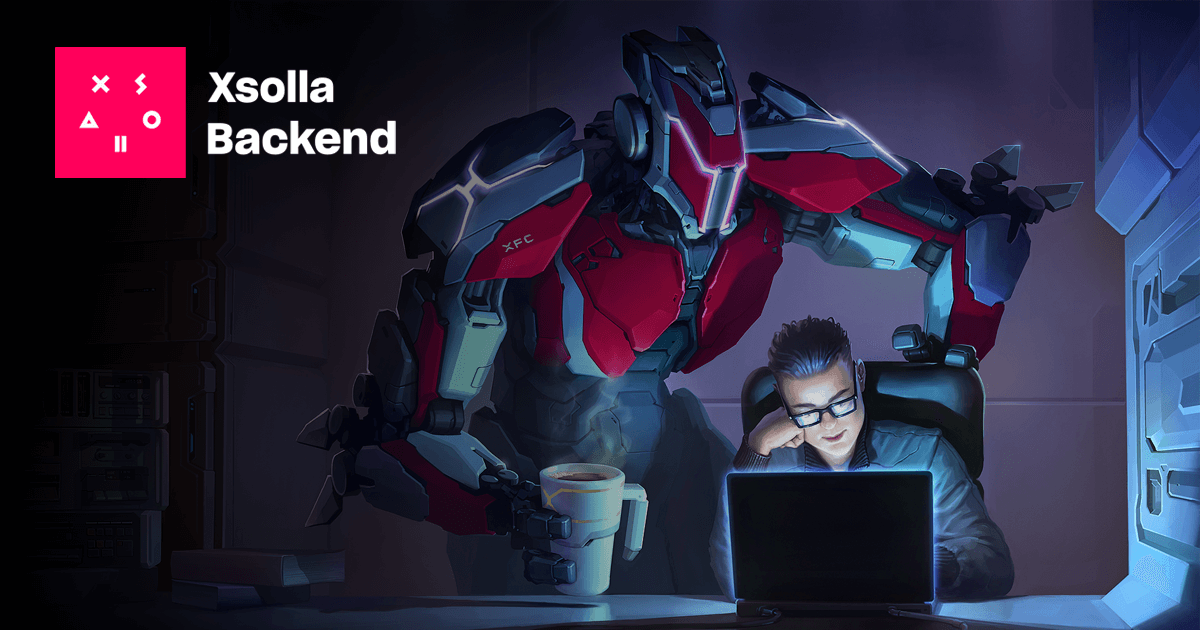
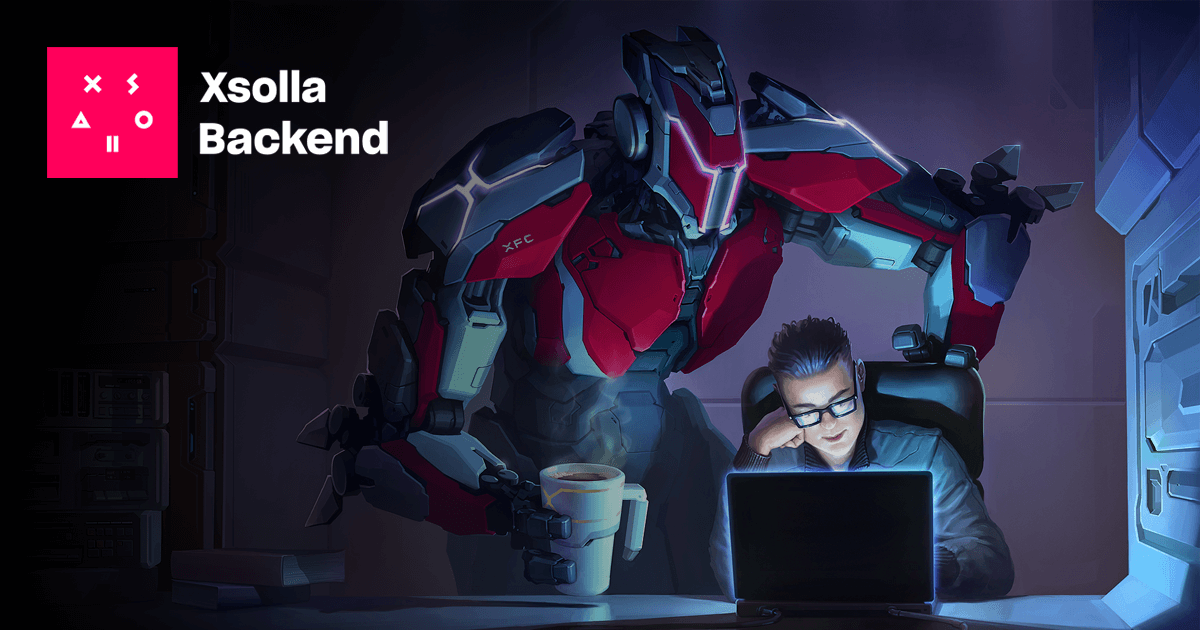
chore: Impr metadata, flagship img, og:img, opengraph
[XBND-1271] JP's doc rearrange reqs

Changed region(s): [[0.0308, 0.0603, 0.3392, 0.2714], [0.925, 0.8746, 0.9867, 0.9349]]

diff --git a/docs/source/index.rst b/docs/source/index.rst
@@ -1,13 +1,16 @@
+:og:title: Welcome to Xsolla Backend
+:og:description: Xsolla Backend is a powerful backend engine for building highly-scalable online games and entertainment products - pay only 5% for unlimited support and enterprise features.
+:og:image: /_static/images/_local/xbe-banner-og-1200x630.min.png
+
 .. meta::
-   :description: Xsolla Backend [XBE] is a powerful backend engine for building highly-scalable online games and
-                 entertainment products covering a robust set of features.
+   :description: Xsolla Backend [XBE] is a powerful backend engine for building highly-scalable online games and entertainment products covering a robust set of features - pay only 5% for unlimited support and enterprise features
    :keywords: xbe, xsolla backend, axr, acceleratxr, backend, backend as a service, gbaas, doc, docs, api docs, api, openapi, xbe docs, xsolla docs, xsolla backend docs
 
-==============================
-Xsolla Backend [XBE] - Welcome
-==============================
+=========================
+Welcome to Xsolla Backend
+=========================
 
-.. image:: /_static/images/_local/xbe-banner-1200x478.min.png
+.. image:: /_static/images/_local/xbe-banner-og-1200x478.min-smLogoNoTxt.png
    :alt: XBE Docs
    :width: 720px
 
@@ -34,7 +37,7 @@ Xsolla Backend [XBE] - Welcome
       :caption: Welcome
       :hidden:
       
-      What Is Xsolla Backend? <content/-/welcome/what_is_xbe>
+      About XBE <content/-/welcome/what_is_xbe>
       Features <content/-/welcome/features>
       Quickstart <content/-/welcome/quickstart>
       Demo <content/-/welcome/demo_env>
@@ -48,7 +51,7 @@ Xsolla Backend [XBE] - Welcome
       :caption: Welcome
       :hidden:
       
-      What Is Xsolla Backend? <content/-/welcome/what_is_xbe>
+      About XBE <content/-/welcome/what_is_xbe>
       Features <content/-/welcome/features>
       Quickstart <content/-/welcome/quickstart>
       Demo <content/-/welcome/demo_env>
@@ -98,7 +101,7 @@ Xsolla Backend [XBE] - Welcome
 .. include:: component_cards-partial.rst
    :start-after: start-marker
 
-**Xsolla Backend** [XBE] is a powerful backend engine for building highly-scalable online games and entertainment
+Xsolla Backend [XBE] is a powerful backend engine for building highly-scalable online games and entertainment
 products. XBE's robust set of :doc:`features <content/-/welcome/features>` cover everything you need - from
 matchmaking and identity to quest systems - enabling you to craft modern online experiences quickly and affordably:
 
